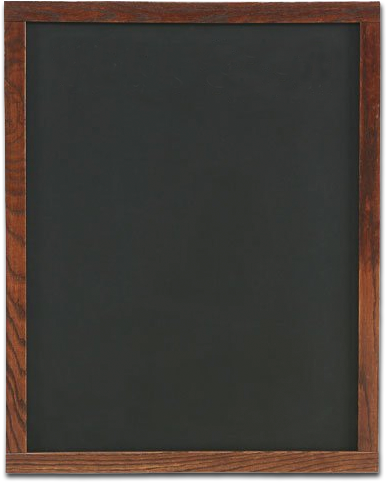
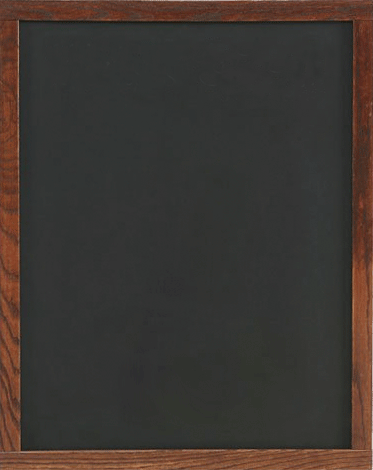
Sexy logged-out landing page

Changed region(s): [[0.0, 0.0, 1.0, 1.0]]

diff --git a/app/assets/stylesheets/crossword_puzzles.css.scss b/app/assets/stylesheets/crossword_puzzles.css.scss
@@ -588,3 +588,12 @@ img#admin-only {
 	padding: 0.6em 1em;
 	font-weight: bold;
 }
+#logged-out-welcome-container {
+	width: 23.3em;
+	height: 29.4em;
+	margin: 2em auto;
+	background: url(/assets/chalkboardBlack.png);
+	-webkit-box-shadow: 4px 3px 10px rgba(0, 0, 0, 0.8);
+	-moz-box-shadow: 4px 3px 10px rgba(0, 0, 0, 0.8);
+	box-shadow: 4px 3px 10px rgba(0, 0, 0, 0.8);
+}
